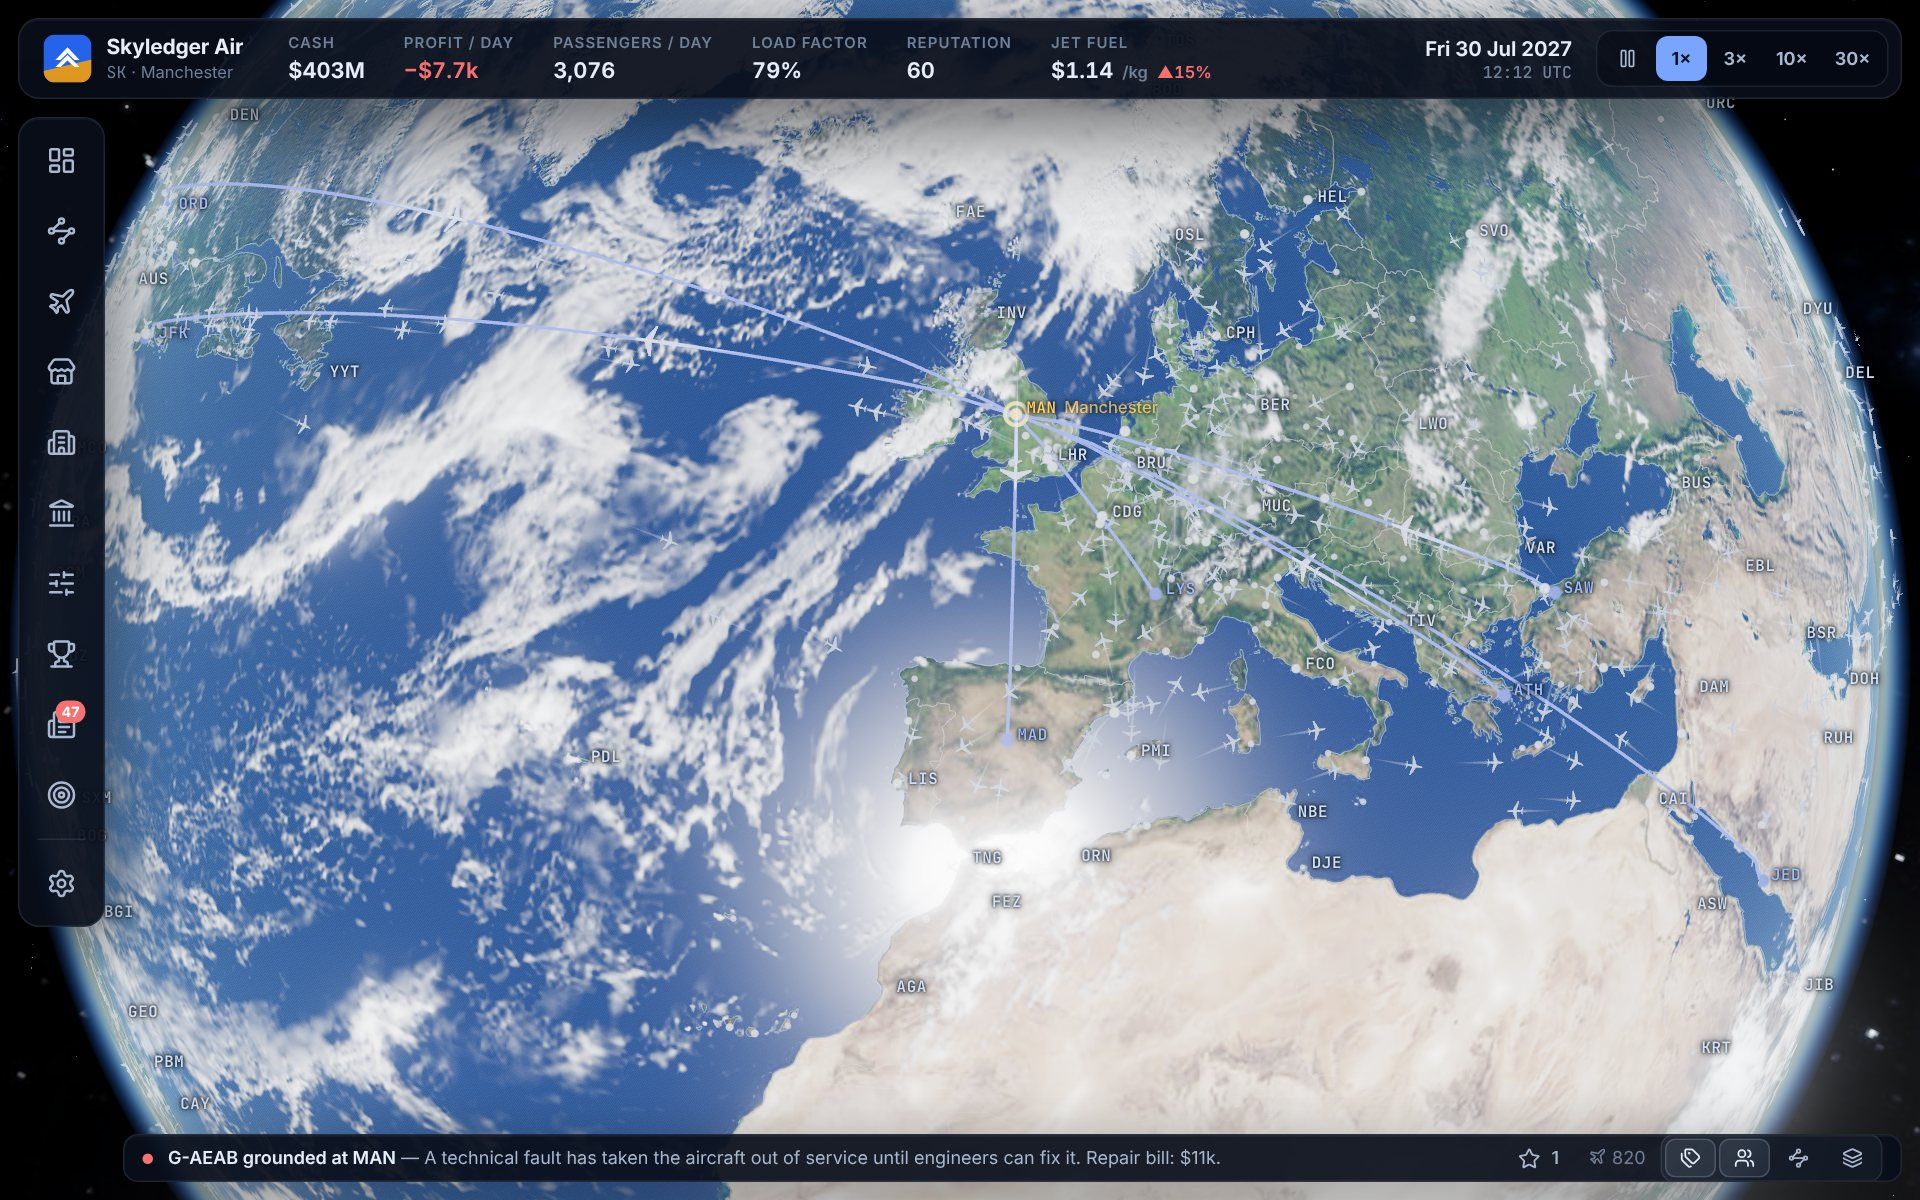
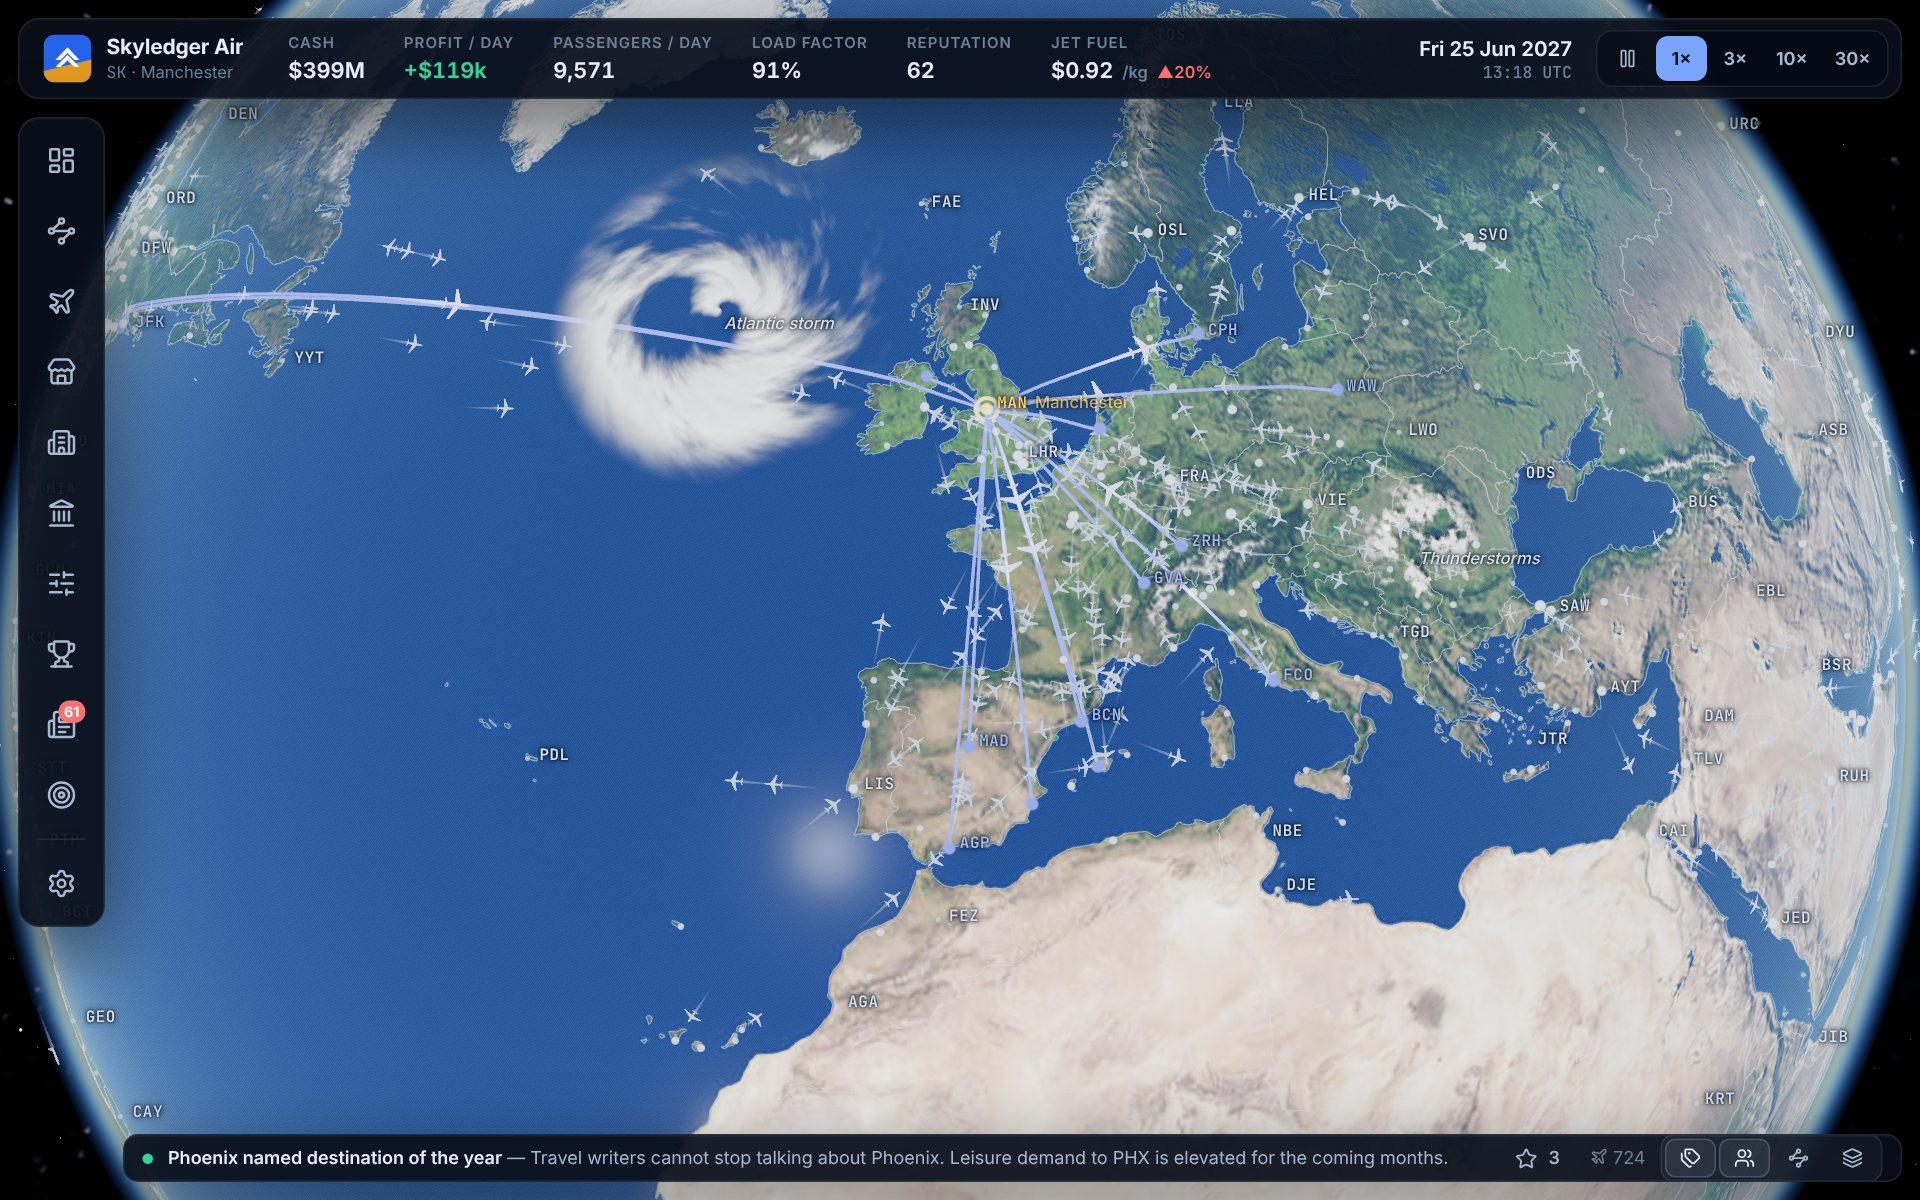
Document the weather, demand and competition changes; refresh screenshots
- README: the clear map and its weather, how demand is built from travel
  between countries, one-stop competition and aircraft fit, the corridor
  data and how to refit it, and how the demand model measures up
- in-game help: who already carries a market, and watching the weather
- new screenshots: the clear globe with a storm coming in, weather over
  Europe with an airport card, the planner and a route's market table
- weather labels move a little to find room beside a busy airport
- weather is named for the city nearest its centre
- a fainter sun glint from orbit

Claude-Session: https://claude.ai/code/session_01WnsWqhUYYydujXJ2JcjYEr

diff --git a/src/ui/hud/Modals.tsx b/src/ui/hud/Modals.tsx
@@ -204,11 +204,12 @@ function HelpModal() {
       <div className="grid-2" style={{ alignItems: 'start' }}>
         <div className="col gap-6 muted" style={{ lineHeight: 1.55 }}>
           <p><b className="strong" style={{ color: 'var(--text)' }}>1. Get an aircraft.</b> Lease or buy one in the aircraft market. Leasing is cheap up front; buying costs less in the long run.</p>
-          <p><b className="strong" style={{ color: 'var(--text)' }}>2. Open a route.</b> In Routes, choose “New route”, pick an aircraft type and click a destination. The forecast uses the same model as the live game.</p>
+          <p><b className="strong" style={{ color: 'var(--text)' }}>2. Open a route.</b> In Routes, choose “New route”, pick an aircraft type and click a destination. The forecast uses the same model as the live game, and shows who already carries the market: the biggest market is not always the best bet.</p>
           <p><b className="strong" style={{ color: 'var(--text)' }}>3. Let the fares look after themselves.</b> New routes have managed fares: every few days each cabin’s fare moves to where it earns the most. Your job is the right aircraft on the right route. A route that stays cheap and still flies half empty has too many seats on it: use a smaller aircraft, or share one between several thin routes. Any route can be switched to manual fares in its panel.</p>
           <p><b className="strong" style={{ color: 'var(--text)' }}>4. Build a hub.</b> When many routes meet at a hub, passengers connect between them and fill seats that local demand alone would not. That feed, and a good reputation, are what make long-haul widebodies pay.</p>
           <p><b className="strong" style={{ color: 'var(--text)' }}>5. Mind the slots.</b> At slot-constrained airports each departure a day needs a slot. Buy more on the airport’s card, or carry more per slot with a bigger aircraft.</p>
           <p><b className="strong" style={{ color: 'var(--text)' }}>6. Mind the cash.</b> Fuel prices swing, seasons turn and rivals react. Hedge fuel when it is cheap and keep a reserve for winter.</p>
+          <p><b className="strong" style={{ color: 'var(--text)' }}>7. Watch the weather.</b> The map is clear except where weather is getting in the way. An airport under a storm has delays; under the core of a typhoon or a blizzard it closes until the storm has passed. Click an airport to see what is overhead and what is forecast.</p>
         </div>
         <table className="tbl compact">
           <tbody>

diff --git a/src/render/earth.ts b/src/render/earth.ts
@@ -127,7 +127,7 @@ void main() {
   float nh = max(dot(Nw, H), 0.0);
   // From orbit the glint is kept small, so that it is not taken for weather on the
   // clear map; in the flight view it is the sea shining through the gaps in the cloud.
-  float glint = (pow(nh, mix(140.0, 70.0, closeUp)) * mix(0.1, 0.8, closeUp) + pow(nh, mix(900.0, 420.0, closeUp)) * mix(0.55, 2.4, closeUp)) * mix(glintAmount, 1.0, closeUp);
+  float glint = (pow(nh, mix(260.0, 70.0, closeUp)) * mix(0.03, 0.8, closeUp) + pow(nh, mix(1600.0, 420.0, closeUp)) * mix(0.16, 2.4, closeUp)) * mix(glintAmount, 1.0, closeUp);
   float fresnel = pow(1.0 - max(dot(N, V), 0.0), 4.0);
   float wet = (1.0 - land) * (1.0 - 0.75 * cloudAbove);
   color += sunColor * glint * wet * smoothstep(0.0, 0.15, ndl);

diff --git a/README.md b/README.md
@@ -7,13 +7,15 @@ living, photoreal Earth: 667 real airports, 28 real aircraft types, 39 rival
 airlines that plan against you, and an economy in which every seat on every flight
 is sold (or not) by a model of who wants to fly where, when, and at what price.
 
-![Your network on the globe, with every airline's traffic in the air](docs/screens/hero.jpg)
+![Your network on a clear globe, with every airline's traffic in the air and a storm coming in off the Atlantic](docs/screens/hero.jpg)
 
 | | |
 |---|---|
+| ![Weather over Europe, and what it is doing to Dublin](docs/screens/weather.jpg) | ![Planning a route on the globe](docs/screens/planner.jpg) |
+| ![A route: fares, aircraft and who carries the market](docs/screens/route.jpg) | ![Overview of the airline](docs/screens/overview.jpg) |
 | ![Flight view by day](docs/screens/flight.jpg) | ![Flight view at dusk](docs/screens/flight-dusk.jpg) |
-| ![Aircraft market with a live 3D model](docs/screens/market.jpg) | ![Planning a route on the globe](docs/screens/planner.jpg) |
-| ![A route: fares, aircraft and the competition](docs/screens/route.jpg) | ![Overview of the airline](docs/screens/overview.jpg) |
+
+![Aircraft market with a live 3D model](docs/screens/market.jpg)
 
 ## Play
 
@@ -32,11 +34,20 @@ loaded. Saves live in the browser (IndexedDB) and can be exported to a file.
 ## What is in it
 
 **A living 3D Earth.** Day and night follow the real sun for the game date; city
-lights come on across the terminator; clouds drift and cast shadows; the
-atmosphere is ray-marched (Rayleigh and Mie scattering), so the limb glows and
-sunsets redden. Zoom from deep space to regional scale and the view tilts
-towards the horizon. Every aircraft in the world is drawn in flight, with
-contrails, along great-circle paths.
+lights come on across the terminator; the atmosphere is ray-marched (Rayleigh and
+Mie scattering), so the limb glows and sunsets redden. The map itself is kept
+clear, so that what you see on it is what matters: your network, everyone's
+traffic, and the weather that is actually getting in the way. Zoom from deep
+space to regional scale and the view tilts towards the horizon. Every aircraft in
+the world is drawn in flight, with contrails, along great-circle paths.
+
+**Weather that comes and goes.** Atlantic lows, blizzards, thunderstorms, fog,
+sandstorms and named tropical cyclones form where and when they belong, track
+across the map, build and fade. An airport under one has delays; under the core
+of a severe one it closes, and flights are held on the ground until it has
+passed. The airport card shows what is overhead and what is forecast, and
+serious weather heading for your airports makes the news a day or two ahead.
+Any one place is clear about nine days in ten, even in its stormy season.
 
 **Flight view.** Click any aircraft, yours or a rival's, and ride alongside it:
 a full 3D model in its airline's livery, lit by the real sun, over the terrain it
@@ -49,11 +60,16 @@ world's most congested airports are slot-limited: you can only fly as many
 departures as you hold slots for, supply there is short and fares are firm, so
 the way to carry more is a bigger aircraft per slot.
 
-**A demand model, not a lookup table.** Passenger demand between any two cities
-comes from a gravity model (city size, wealth, distance, tourism, business ties,
-domestic and regional affinities) balanced so that each airport's traffic adds up
-to its real-world scale. Demand moves with the season, the economy and events,
-and bookings swing from one departure to the next. Three cabin classes respond
+**People fly where people really go.** Demand between two airports starts from
+how much travel there is between their two countries: some 2,800 country pairs
+fitted to approximate real volumes, which is where holidays, family ties, migrant
+workers, old empires and business come in. It is then shared among the airports
+by what kind of places they are: intercontinental gateways and regional
+airports, resorts and business centres, how far apart, and whether a train or a
+motorway does the job better. From Manchester that means Dublin, the
+Mediterranean and Amsterdam, not Jeddah. Each airport's traffic adds up to its
+real-world scale. Demand moves with the season, the economy and events, and
+bookings swing from one departure to the next. Three cabin classes respond
 differently to price and quality. Travellers you cannot seat go to other
 airlines; travellers connect through your hubs.
 
@@ -65,7 +81,12 @@ livery: seven livery styles, ten tail emblems, any colours.
 
 **39 rival airlines.** Legacy carriers, low-cost carriers, regional and premium
 airlines, each with a home market and a temperament. They open and close routes,
-reprice within days when the market moves, order aircraft and go bust.
+reprice within days when the market moves, order aircraft and go bust. On long
+routes you also compete with changing planes at somebody else's hub. Aircraft
+are judged by how well they suit the sector (nobody enjoys four hours in a
+turboprop), and their ranges allow for reserves and headwinds. The planner and
+every route panel show who carries the market, and how many passengers each
+airline gets.
 
 **The business.** Fares by class, set by hand or left to revenue management
 that moves each cabin's fare to where it earns the most; promotions, service and
@@ -80,7 +101,7 @@ what to expect once the route is established, in its first month, and if a
 rival moves in; each route remembers what it was planned for.
 
 **A world that pushes back.** Fuel price swings, recessions and booms, strikes,
-storms, volcanic ash, tourism fashions, big events; decisions to take (union
+volcanic ash, tourism fashions, big events; decisions to take (union
 demands, safety audits, manufacturer offers, investors) and 29 milestones to
 chase.
 
@@ -96,9 +117,11 @@ pad over the globe, engines and slipstream in the flight view.
    front; buying is cheaper over the years. A narrowbody suits busy routes of up
    to five or six hours; a turboprop or regional jet suits thin, short ones.
 3. **Open a route** from Routes (`N`) → *Plan on the globe*. The planner shows
-   the aircraft's range, how much demand each destination has, and a forecast of
-   load factor and profit: once established, in the first month, and if a rival
-   moves in.
+   the aircraft's range, how much demand each destination has, who already
+   carries it, and a forecast of load factor and profit: once established, in
+   the first month, and if a rival moves in. The biggest market is not always
+   the best bet: a crowded trunk route can pay less than a thinner one nobody
+   flies.
 4. **Start the clock** (`Space`) and watch the first flights go out.
 5. **Leave the fares alone, or don't.** New routes have managed fares: every few
    days each cabin's fare moves to where it earns the most. Your job is the
@@ -114,6 +137,9 @@ pad over the globe, engines and slipstream in the flight view.
    are what holds you back, fly bigger aircraft.
 8. **Mind the cash.** Winters are lean, fuel is volatile and rivals react. Hedge
    fuel when it is cheap, and keep a reserve.
+9. **Watch the weather.** A storm over one of your airports means delays; a
+   typhoon or a blizzard can shut it for a day or two. Click an airport to see
+   what is overhead and what is forecast.
 
 | Key | Action |
 |---|---|
@@ -133,19 +159,21 @@ demand, costs, interest rates and how aggressive the rivals are.
 ```
 src/
   sim/        The simulation. No DOM, no rendering: runs in Node for the tests.
-    data/       Airports (generated), aircraft types, rival airline templates
-    demand.ts   Gravity demand model, class split, reference fares, seasons
+    data/       Airports and country ties (generated), aircraft types, rival airline templates
+    demand.ts   Who wants to fly where: country ties, airport structure, class split, fares, seasons
     pricing.ts  Revenue management: fares that move to where each cabin earns most
     slots.ts    Departure slots at congested airports
-    market.ts   Market share between airlines, booking pools, connections
+    market.ts   Market share between airlines and one-stop itineraries, booking pools, connections
     ops.ts      The flight state machine: turnarounds, legs, delays, costs
     finance.ts  Ledgers, loans, leases, credit, valuation
     ai.ts       Rival airlines
+    weather.ts  Weather systems: where they form, how they move, what they do to airports
     world.ts    Fuel, the economy, events, the second-hand market
     planner.ts  Route forecasts and suggestions (shared by the UI and the AI)
     sim.ts      The clock, daily and monthly cycles, save and load
   render/     three.js
     earth.ts    Surface, cloud and atmosphere shaders
+    weather.ts  Weather systems drawn on the globe
     sky.ts      Stars, Milky Way, sun
     layers.ts   Borders, airports, route arcs, live traffic
     chase.ts    The flight view
@@ -177,8 +205,15 @@ resolution when a GPU cannot keep up.
 npm test                 # simulation, demand and balance tests
 npm run typecheck
 REPORT=1 npm run balance # how a simple bot player fares, and what each home base offers
-DIAG=1 npx vitest run tests/diag.test.ts --disable-console-intercept   # modelled vs realised loads
+CALIBRATE=1 npx vitest run tests/demand.test.ts --disable-console-intercept   # the demand model against real routes
 ```
+
+The demand test compares the model with about 1,700 real routes
+(`tests/routes.reference.ts`): the median error is a factor of about 1.5, 70% are
+within a factor of two and 86% within three. The model is weakest on
+resort-by-resort national tastes (which nationality goes to which island) and in
+countries with few airports in the game, where the trunk routes come out too
+big.
 
 Useful addresses in development:
 
@@ -190,14 +225,20 @@ Useful addresses in development:
 
 ```bash
 npm run data:airports    # airports from OurAirports + scripts/*-curated.txt
+npm run data:ties        # country-to-country travel, fitted to scripts/corridors-curated.txt
 npm run data:borders     # coastlines and borders from Natural Earth
 scripts/process-textures.sh <src-dir> [<8k-dir>]   # Earth textures (needs ImageMagick)
 ```
 
 The generated files are committed, so none of this is needed to run the game.
 `scripts/airports-curated.txt` decides which airports exist and carries the
-balance inputs (annual passengers, transfer share, character flags);
-`scripts/countries-curated.txt` holds region, wealth and trade bloc.
+balance inputs (annual passengers, transfer share, domestic share, and flags
+for gateways, resorts and business centres); `scripts/countries-curated.txt`
+holds region, wealth, trade bloc, languages, railways and domestic share;
+`scripts/corridors-curated.txt` holds passengers a year between pairs of
+countries. All of these figures are approximate game-balance inputs, written
+down from memory of public statistics of about 2019. They are not statistics,
+and should not be used as such.
 
 ## Credits and licences
 
